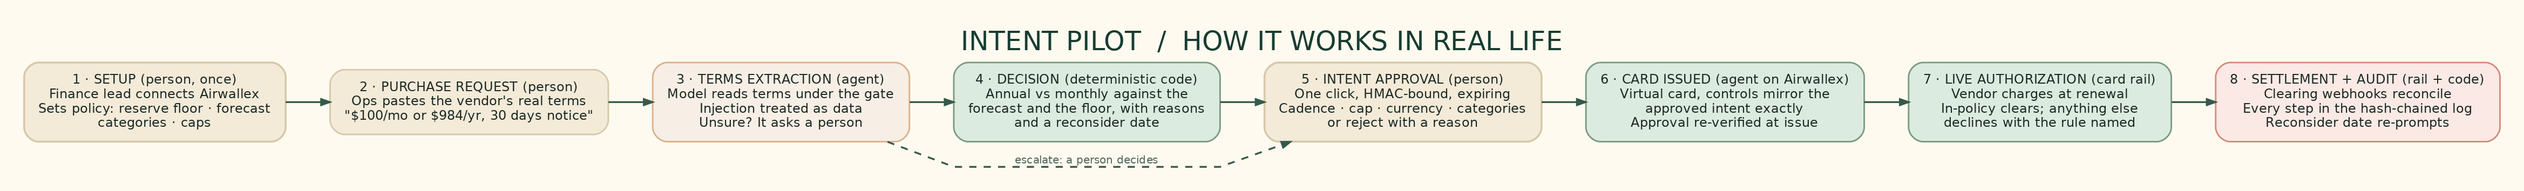
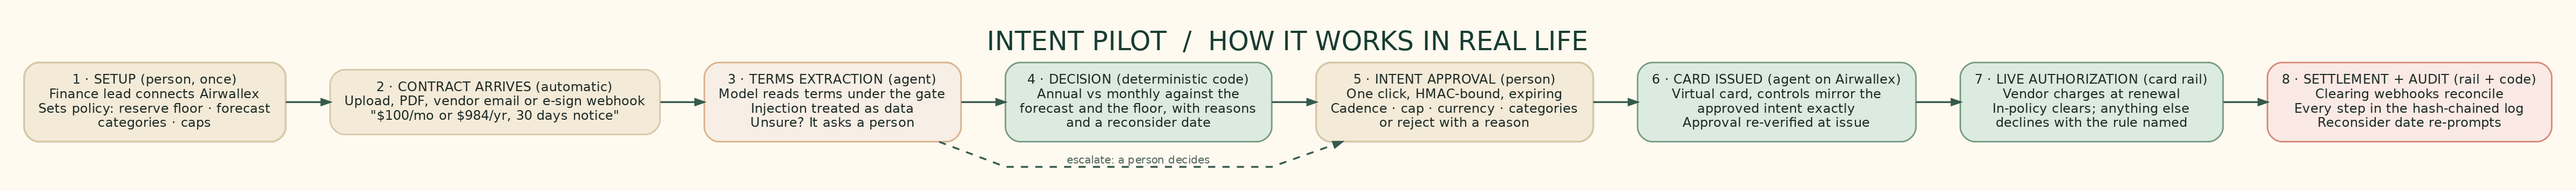
Automated contract intake: upload, PDF, email and e-sign webhook paths
- src/intake: each path yields untrusted terms text plus provenance for the audit log
- PDF path fails closed without a configured extractor; e-sign webhook only proceeds on a completed envelope
- IRL user flow, diagram and README no longer have anyone copy-pasting terms
- 5 intake tests (165 total)

diff --git a/src/intake/intake.ts b/src/intake/intake.ts
@@ -1,0 +1,48 @@
+// Contract intake: how vendor terms reach the agent in production. Nobody copy-pastes in the real flow - the
+// contract arrives from wherever it was signed: an in-app upload, a PDF, a vendor email, or an e-sign webhook.
+// Every path produces the same thing: untrusted text plus a provenance string for the audit log. The extraction
+// and governance layers downstream do not care which path the text took.
+
+export type IntakeSource = "upload" | "pdf" | "email" | "esign-webhook";
+export interface IntakeResult { ok: boolean; rawTerms?: string; provenance?: string; error?: string }
+
+const MAX_TERMS_CHARS = 20_000;
+const clean = (text: string): string | undefined => {
+  const t = text.replace(/[\x00-\x1f]+/g, " ").trim();
+  return t.length > 0 && t.length <= MAX_TERMS_CHARS ? t : undefined;
+};
+const fail = (error: string): IntakeResult => ({ ok: false, error });
+
+/** In-app upload: the signed contract file (or its text) dropped into the console by someone in ops. */
+export function fromUpload(filename: string, text: string, at: Date = new Date()): IntakeResult {
+  const rawTerms = clean(text);
+  return rawTerms ? { ok: true, rawTerms, provenance: `uploaded file ${filename} at ${at.toISOString()}` } : fail("upload had no usable text");
+}
+
+/** A PDF contract. Text extraction is pluggable: hosts bring their own extractor (OCR for scans, a text-layer
+ * reader for digital PDFs). Without one the path fails closed and says so - a silent empty extraction is worse. */
+export type PdfExtractor = (bytes: Uint8Array, filename: string) => Promise<string>;
+export async function fromPdf(filename: string, bytes: Uint8Array, extractor?: PdfExtractor, at: Date = new Date()): Promise<IntakeResult> {
+  if (!extractor) return fail("no PDF extractor configured: bring an OCR or text-layer reader for this path");
+  const rawTerms = clean(await extractor(bytes, filename));
+  return rawTerms ? { ok: true, rawTerms, provenance: `PDF ${filename} at ${at.toISOString()}` } : fail("PDF produced no usable text");
+}
+
+/** A vendor email carrying the terms (pricing page quote, order form, renewal notice). */
+export function fromEmail(mail: { from: string; subject: string; text: string; receivedAt?: string }): IntakeResult {
+  const rawTerms = clean(mail.text);
+  return rawTerms
+    ? { ok: true, rawTerms, provenance: `email from ${mail.from} ("${mail.subject.slice(0, 80)}") at ${mail.receivedAt ?? new Date().toISOString()}` }
+    : fail("email had no usable text");
+}
+
+/** An e-sign webhook (DocuSign-shaped): envelope.completed means the contract is signed; the document itself is
+ * then fetched from the e-sign API. The webhook proves signing happened; it is not the terms text. */
+export interface EsignEnvelope { envelopeId: string; status: string; subject?: string }
+export function fromEsignWebhook(payload: { event: string; data?: EsignEnvelope }): IntakeResult {
+  const env = payload.data;
+  if (!env?.envelopeId) return fail("webhook carried no envelope");
+  if (payload.event !== "envelope-completed" || env.status !== "completed")
+    return fail(`envelope ${env.envelopeId} is ${env.status ?? "unknown"}, not completed`);
+  return { ok: false, error: `envelope ${env.envelopeId} completed: fetch the signed document from the e-sign API, then ingest it as PDF` };
+}

diff --git a/test/intake.test.ts b/test/intake.test.ts
@@ -1,0 +1,33 @@
+import { describe, it, expect } from "vitest";
+import { fromUpload, fromPdf, fromEmail, fromEsignWebhook } from "../src/intake/intake.js";
+
+const terms = "Acme Analytics Pro: $100 per month, or $984 per year billed upfront. 30 days notice. USD.";
+
+describe("contract intake", () => {
+  it("ingests an in-app upload with provenance", () => {
+    const r = fromUpload("acme-order-form.txt", terms, new Date("2026-10-06T12:00:00Z"));
+    expect(r.ok).toBe(true);
+    expect(r.rawTerms).toBe(terms);
+    expect(r.provenance).toContain("acme-order-form.txt");
+  });
+  it("ingests a vendor email with sender provenance", () => {
+    const r = fromEmail({ from: "sales@acme.example", subject: "Your order form", text: terms, receivedAt: "2026-10-06T11:00:00Z" });
+    expect(r.ok).toBe(true);
+    expect(r.provenance).toContain("sales@acme.example");
+  });
+  it("PDF path fails closed without an extractor, extracts with one", async () => {
+    expect((await fromPdf("contract.pdf", new Uint8Array([1, 2]))).ok).toBe(false);
+    const r = await fromPdf("contract.pdf", new Uint8Array([1, 2]), async () => terms);
+    expect(r.ok).toBe(true);
+    expect(r.provenance).toContain("contract.pdf");
+  });
+  it("e-sign webhook: only a completed envelope proceeds, and the document fetch is explicit", () => {
+    expect(fromEsignWebhook({ event: "envelope-completed", data: { envelopeId: "env-1", status: "completed" } }).error).toContain("fetch the signed document");
+    expect(fromEsignWebhook({ event: "envelope-sent", data: { envelopeId: "env-1", status: "sent" } }).ok).toBe(false);
+    expect(fromEsignWebhook({ event: "envelope-completed", data: undefined }).ok).toBe(false);
+  });
+  it("rejects empty and oversized text", () => {
+    expect(fromUpload("x.txt", "   ").ok).toBe(false);
+    expect(fromUpload("x.txt", "a".repeat(21_000)).ok).toBe(false);
+  });
+});

diff --git a/docs/user-flow.md b/docs/user-flow.md
@@ -3,7 +3,7 @@
 Who does what, in what order, for a real company paying a real vendor.
 
 1. **Setup (a person, once).** The finance lead connects the company's Airwallex account and sets the spending policy: the reserve floor, the cash forecast, allowed merchant categories and caps. This is the only configuration the agent ever gets - it is data, not instructions.
-2. **Purchase request (a person).** Someone in ops pastes the vendor's actual pricing text: "Acme Analytics Pro: $100 per month, or $984 per year billed upfront. 30 days notice. USD." That text is untrusted input, always.
+2. **Purchase request (automatic).** The signed contract arrives from wherever it was signed - an in-app upload, a PDF from the deal room, a vendor email, or an e-sign webhook (DocuSign-style: the envelope-completed event fires, the agent fetches the signed document). Each intake path (`src/intake/intake.ts`) produces the same thing: the vendor's actual pricing text - "Acme Analytics Pro: $100 per month, or $984 per year billed upfront. 30 days notice. USD." - plus a provenance string for the audit log. That text is untrusted input, always, whichever door it came in.
 3. **Terms extraction (the agent).** A model reads the terms and proposes structured terms (prices, currency, notice, category). It works under the governance gate: numbers must come from the text or derive from it, citations must be real phrases, and an instruction buried in the terms is treated as data and flagged, never obeyed. If the terms are ambiguous or contradictory, the agent escalates instead of guessing.
 4. **The decision (deterministic code, not the model).** The policy engine weighs annual against monthly week by week against the forecast and the reserve floor, and returns the cadence with reasons and a reconsider date ("annual saves 18% but breaches the floor in week 7 - monthly; revisit at renewal"). The model can propose, but it never gets the last word.
 5. **Intent approval (a person).** The reviewer sees the decision, the evidence and the exact intent - cadence, amount cap, currency, categories - and approves with one click, or rejects with a required reason. The approval is HMAC-bound to the terms hash, the intent hash, the policy version, an expiry and a nonce. Change the deal afterwards and the approval stops matching it.

diff --git a/README.md b/README.md
@@ -36,7 +36,7 @@ The running example is the cash-crunch scenario: Acme Analytics Pro, $100/month 
 
 ![The IRL user flow](docs/5-irl-user-flow.png)
 
-A finance lead sets policy once; ops pastes real vendor terms; the agent extracts under the governance gate; deterministic policy code picks the cadence with reasons; a person approves the intent in one click; the card issues with exactly those controls; renewals clear or decline at the rail with the rule named; settlement reconciles and the audit log holds every step. The full walkthrough is in [docs/user-flow.md](docs/user-flow.md).
+A finance lead sets policy once; the signed contract arrives automatically - in-app upload, PDF, vendor email or e-sign webhook, each producing untrusted text plus an audit-trail provenance (`src/intake/intake.ts`); the agent extracts under the governance gate; deterministic policy code picks the cadence with reasons; a person approves the intent in one click; the card issues with exactly those controls; renewals clear or decline at the rail with the rule named; settlement reconciles and the audit log holds every step. The full walkthrough is in [docs/user-flow.md](docs/user-flow.md).
 
 ## Why it is safe to hand money decisions to
 - **Decisions live in code.** The cadence math, the reserve floor, the card payload and the state machine are code and config. Where a model is switched on (see below), it extracts and proposes. It does not hold credentials and does not get the last word.
